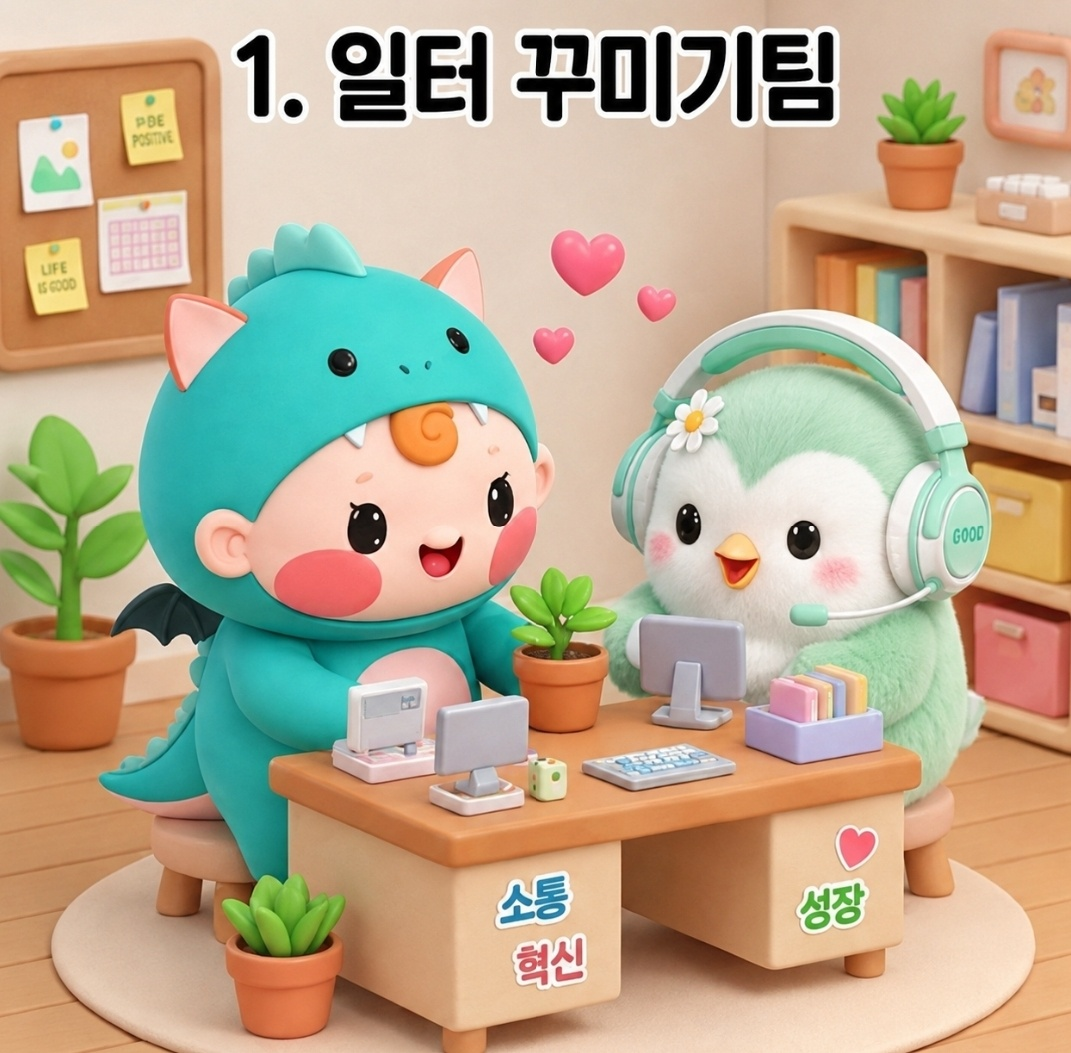
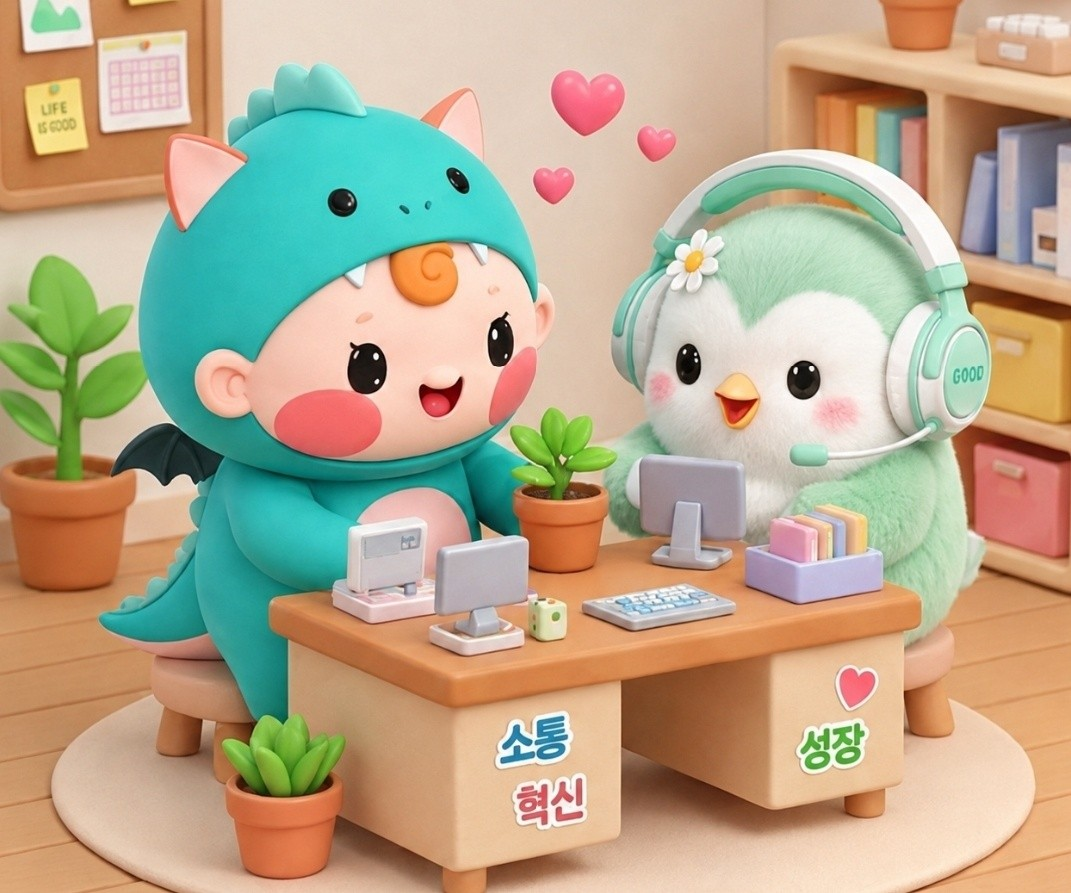
팀 소개 이미지에서 "N. XX팀" 캡션 삭제
이미지 안에 그림으로 박혀 있던 "1. 일터 꾸미기팀" 같은 상단(또는
하단) 제목 캡션을 크롭으로 제거. 시안/소품 라벨("소통", "혁신",
"시너지" 등 장면 안 요소)은 팀 이름 캡션이 아니므로 그대로 둠.

- team-01~03.jpg: 상단 캡션 크롭
- team-05.jpg(구 png): 상단 캡션 크롭
- team-04.jpg(구 png): 하단 캡션 크롭
- team-06.jpg(구 png): 상하단 캡션 둘 다 크롭(원래 위아래 중복 표기)

곁들여 team-04~06 은 .png -> .jpg 로 바꿨습니다. 알파 채널이
전혀 없는데 System.Drawing 기본 PNG 인코더로 저장하니 오히려
2~3배 커져서(최대 3.7MB) JPEG(품질 88)로 재인코딩, 파일당
180~230KB 수준으로 줄임. index.html/standalone.html 의
TEAM_BANDS 경로도 함께 갱신.

두 파일 모두 소개 페이지에서 6개 이미지 로딩 확인.

diff --git a/index.html b/index.html
@@ -1458,9 +1458,9 @@ const TEAM_BANDS = [
   { bg:'#ffe1ec', lead:'일하기 좋은 공간을 함께 만듭니다',   img:'assets/team-01.jpg' },
   { bg:'#e9e5ff', lead:'굳어진 관행부터 하나씩 걷어냅니다', img:'assets/team-02.jpg' },
   { bg:'#d9f5ef', lead:'서로의 말이 통하는 조직을 만듭니다', img:'assets/team-03.jpg' },
-  { bg:'#fff2d9', lead:'쉼과 일이 함께 가는 방식을 찾습니다', img:'assets/team-04.png' },
-  { bg:'#dfeaff', lead:'일을 줄이는 기술을 먼저 써봅니다',   img:'assets/team-05.png' },
-  { bg:'#ffe6ec', lead:'잘한 일은 널리 알립니다',           img:'assets/team-06.png' },
+  { bg:'#fff2d9', lead:'쉼과 일이 함께 가는 방식을 찾습니다', img:'assets/team-04.jpg' },
+  { bg:'#dfeaff', lead:'일을 줄이는 기술을 먼저 써봅니다',   img:'assets/team-05.jpg' },
+  { bg:'#ffe6ec', lead:'잘한 일은 널리 알립니다',           img:'assets/team-06.jpg' },
 ];
 
 VIEWS.intro = () => {

diff --git a/standalone.html b/standalone.html
@@ -1207,9 +1207,9 @@ const TEAM_BANDS = [
   { bg:'#ffe1ec', lead:'일하기 좋은 공간을 함께 만듭니다',   img:'assets/team-01.jpg' },
   { bg:'#e9e5ff', lead:'굳어진 관행부터 하나씩 걷어냅니다', img:'assets/team-02.jpg' },
   { bg:'#d9f5ef', lead:'서로의 말이 통하는 조직을 만듭니다', img:'assets/team-03.jpg' },
-  { bg:'#fff2d9', lead:'쉼과 일이 함께 가는 방식을 찾습니다', img:'assets/team-04.png' },
-  { bg:'#dfeaff', lead:'일을 줄이는 기술을 먼저 써봅니다',   img:'assets/team-05.png' },
-  { bg:'#ffe6ec', lead:'잘한 일은 널리 알립니다',           img:'assets/team-06.png' },
+  { bg:'#fff2d9', lead:'쉼과 일이 함께 가는 방식을 찾습니다', img:'assets/team-04.jpg' },
+  { bg:'#dfeaff', lead:'일을 줄이는 기술을 먼저 써봅니다',   img:'assets/team-05.jpg' },
+  { bg:'#ffe6ec', lead:'잘한 일은 널리 알립니다',           img:'assets/team-06.jpg' },
 ];
 
 VIEWS.intro = () => {
